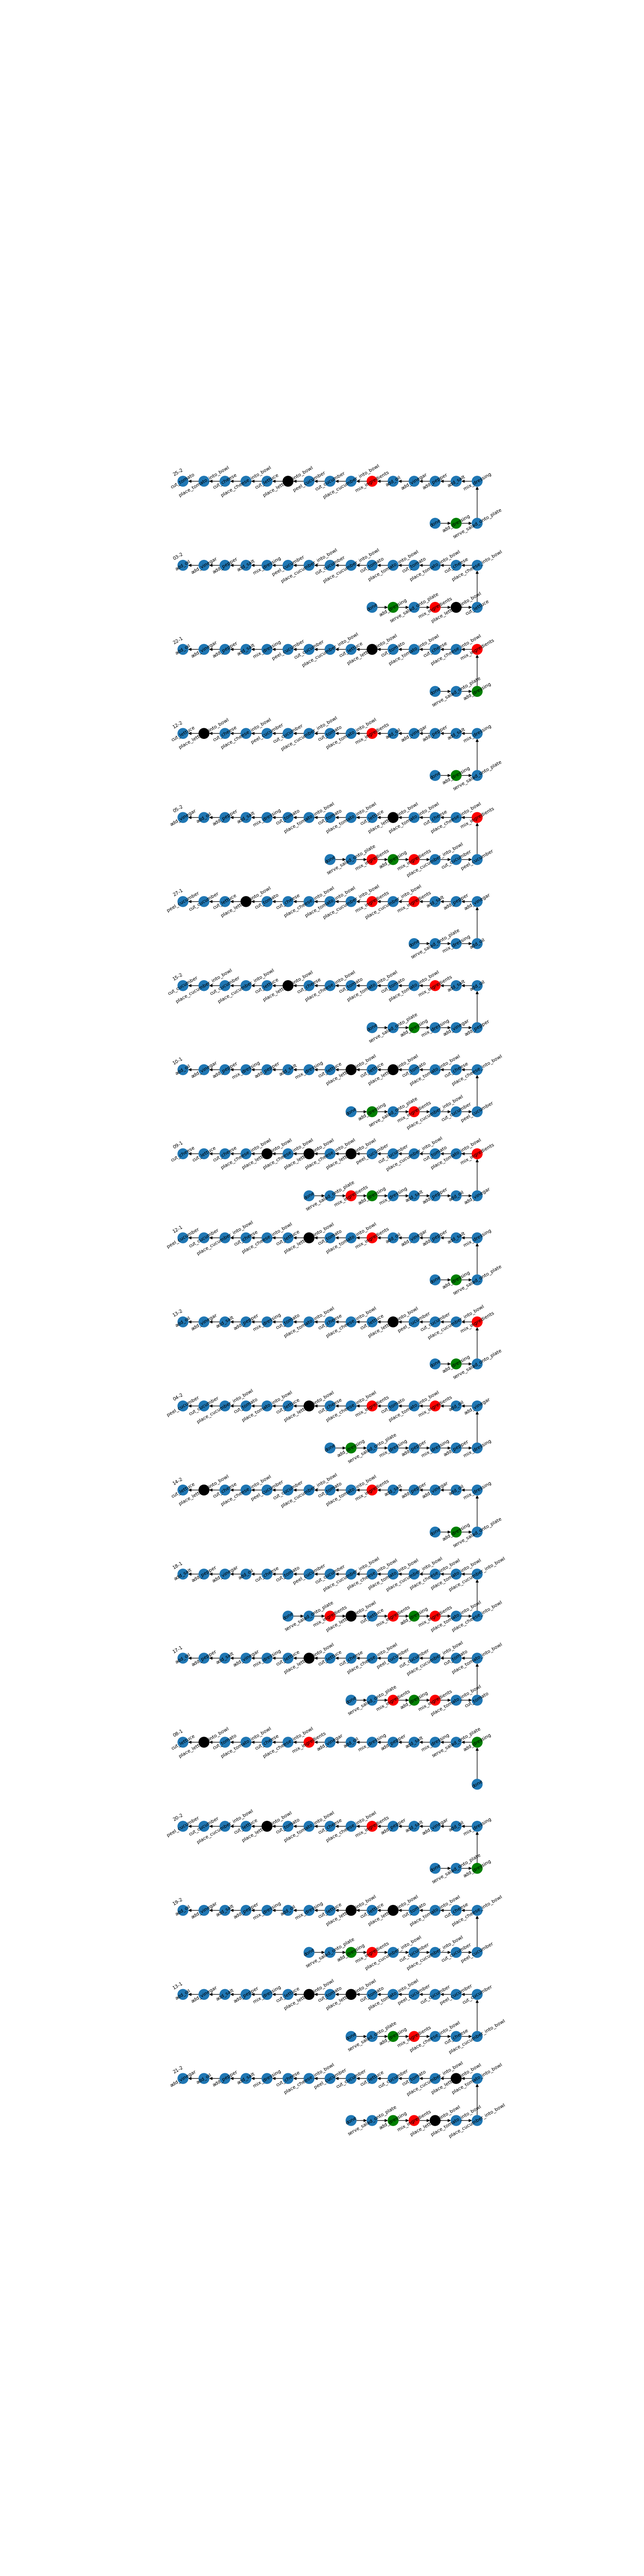
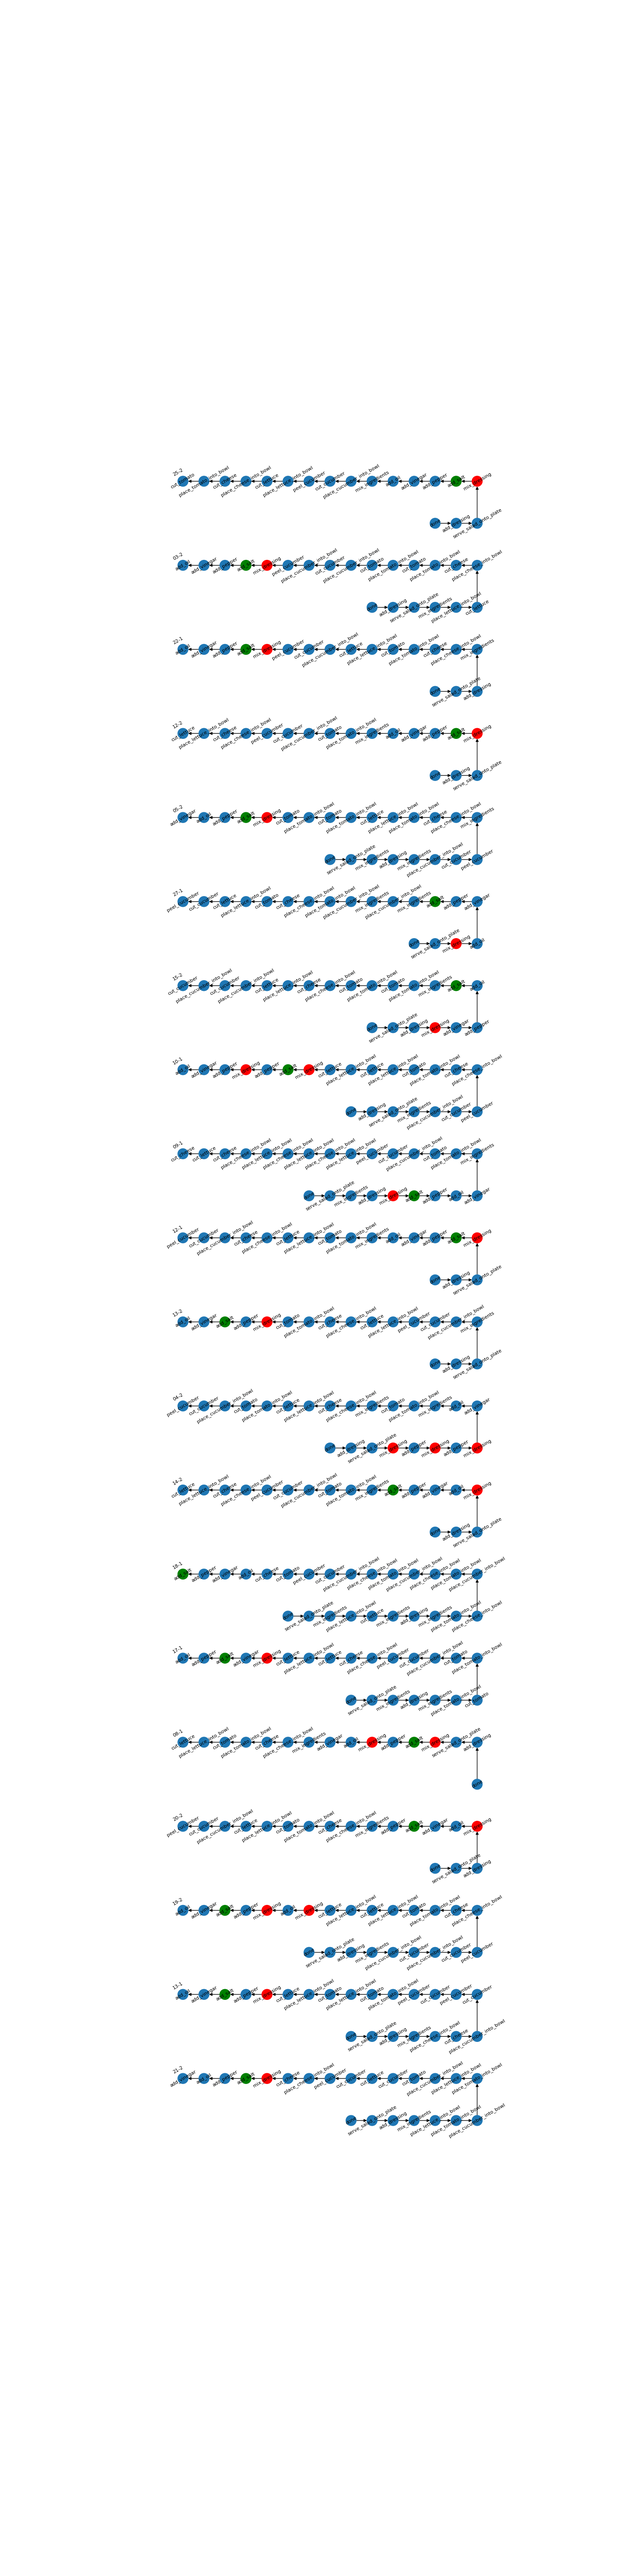
Graph runner updated, with video checking

diff --git a/graph_runner.py b/graph_runner.py
@@ -22,66 +22,102 @@ A grey node is COMPLETE if:
 #     3. all black-child nodes are COMPLETE
 
 """
-def run_graph(graph):
-    from combined_graph import draw_graph
-    graph = copy.deepcopy(graph)
-    update_node_states(graph)
-    runnable_nodes = get_runnable_nodes(graph)
-    done_node = graph.get_node('done')
-    while not is_complete(done_node):
-        draw_graph(graph)
-        print_nodes(runnable_nodes)
-        choice = input()
-        choice_node = graph.get_node(choice)
-        execute_node(choice_node)
-        update_node_states(graph)
-        runnable_nodes = get_runnable_nodes(graph)
 
-def print_nodes(nodes):
-    for node in nodes:
-        print(node, end=', ')
-    print()
+class GraphRunner():
+    def __init__(self, graph, all_action_list):
+        self.orig_graph = graph
+        self.graph = copy.deepcopy(graph)
+        self.all_action_list = all_action_list
+        self.cur_action_list_idx = 0
+        self.cur_action_list = all_action_list[self.cur_action_list_idx]
+        self.cur_action_idx = 0
 
-def execute_node(node):
-    if not is_executable(node):
-        print("Not executable! Current state of node {} is {}!".format(node.name, node.state))
-        return
-    node.executed = True
+    def reset(self):
+        self.graph = copy.deepcopy(self.orig_graph)
+        self.cur_action_list_idx += 1
+        self.cur_action_idx = 0
 
-def get_runnable_nodes(graph):
-    return [node for node in graph.get_node_list() if is_executable(node)]
+    def run(self):
+        from combined_graph import draw_graph
+        for action_list in self.all_action_list:
+            self.update_node_states()
+            runnable_nodes = self.get_runnable_nodes()
+            done_node = self.graph.get_node('done')
+            while not self.is_complete(done_node):
+                # draw_graph(self.graph)
+                self.print_nodes(runnable_nodes)
+                choice = self.get_next_action()
+                choice_node = self.graph.get_node(choice)
+                self.execute_node(choice_node)
+                self.update_node_states()
+                runnable_nodes = self.get_runnable_nodes()
+            # draw_graph(self.graph)
+            input('Next?')
+            self.reset()
 
-def update_node_states(graph):
-    for i, node in enumerate(graph.get_node_list()):
-        if is_finished(node):
-            node.state = 3
-        elif is_complete(node):
-            node.state = 2
-        elif is_executable(node):
-            node.state = 1
+    def print_nodes(self, nodes):
+        for node in nodes:
+            print(node, end=', ')
+        print()
 
-def is_executable(node):
-    for a_node in node.get_after_nodes():
-        if a_node.executed:
+    def get_next_action(self):
+        # action = input()
+        action = self.cur_action_list[self.cur_action_idx]
+        self.cur_action_idx += 1
+        print(action)
+
+        return action
+
+    def execute_node(self, node):
+        if not self.is_executable(node):
+            print("Not executable! Current state of node {} is {}!".format(node.name, node.state))
+            return
+                
+        node.executed = True
+
+    def get_runnable_nodes(self):
+        return [node for node in self.graph.get_node_list() if self.is_executable(node)]
+
+    def update_node_states(self):
+        changed = True
+        while changed:
+            changed = False
+            for i, node in enumerate(self.graph.get_node_list()):
+                new_state = 0
+                if self.is_finished(node):
+                    new_state = 3
+                elif self.is_complete(node):
+                    new_state = 2
+                elif self.is_executable(node):
+                    new_state = 1
+                if node.state != new_state:
+                    changed = True
+                    node.state = new_state
+
+    def is_executable(self, node):
+        if node.state > 2:
             return False
-    for c_node in node.get_required_nodes():
-        if c_node.state < 2:
-            return False
-    return True
+        for a_node in node.get_after_nodes():
+            if a_node.executed:
+                return False
+        for c_node in node.get_lower_nodes():
+            if c_node.state < 2:
+                return False
+        return True
 
-def is_complete(node):
-    if not node.is_optional() and not node.executed:
+    def is_complete(self, node):
+        if not node.is_optional() and not node.executed:
+            return False
+        for c_node in node.get_mandatory_nodes(): # CHECK
+            if c_node.state < 2:
+                return False
+        return True
+
+    def is_finished(self, node):
+        for c_node in node.get_mandatory_nodes():
+            if c_node.state < 2:
+                return False
+        for a_node in node.get_after_nodes():
+            if a_node.executed or a_node.state > 2:
+                return True
         return False
-    for c_node in node.get_required_nodes():
-        if c_node.state < 2:
-            return False
-    return True
-
-def is_finished(node):
-    for c_node in node.get_required_nodes():
-        if c_node.state < 2:
-            return False
-    for a_node in node.get_after_nodes():
-        if a_node.executed:
-            return True
-    return False

diff --git a/individual_graph.py b/individual_graph.py
@@ -48,8 +48,10 @@ def draw_graph(DG, idx, plot_file, node_list):
 
     for i, name in enumerate(node_list):
         if i == 0:
-            name = "{}\n\n{}\n\n".format(plot_file, name)
-        DG.add_node("{}_{}".format(idx, i), name=name, pos=get_node_pos(i, node_count))
+            label_name = "{}\n\n{}\n\n".format(plot_file, name)
+            DG.add_node("{}_{}".format(idx, i), name=label_name, pos=get_node_pos(i, node_count))
+        else:
+            DG.add_node("{}_{}".format(idx, i), name=name, pos=get_node_pos(i, node_count))
         if name in HIGHLIGHT_NODE.keys():
             node_color.append(HIGHLIGHT_NODE[name])
         else:
@@ -68,9 +70,9 @@ LABEL_ROTATION = 30
 GRAPH_WIDTH = 15
 FONT_SIZE = 8
 # HIGHLIGHT_NODE = {}
-HIGHLIGHT_NODE = {'mix_ingredients': 'red', 'add_dressing': 'green', 'place_lettuce_into_bowl': 'black'}
-# HIGHLIGHT_NODE = {'place_cucumber_into_bowl': 'red', 'cut_cucumber': 'green'}
-# HIGHLIGHT_NODE = {'mix_dressing': 'red', 'add_salt': 'green'}
+# HIGHLIGHT_NODE = {'mix_ingredients': 'red', 'add_dressing': 'green', 'place_lettuce_into_bowl': 'black'}
+# HIGHLIGHT_NODE = {'peel_cucumber': 'red', 'cut_cucumber': 'green'}
+HIGHLIGHT_NODE = {'mix_dressing': 'red', 'add_salt': 'green'}
 node_count = 0
 node_color = []
 plot_list = ["01-1", "02-1", "03-1"]

diff --git a/graph.py b/graph.py
@@ -111,6 +111,15 @@ class Node():
     def get_required_nodes(self):
         return [node for node in self.get_edge_c_nodes() if self.requires(node)]
 
+    def get_lower_nodes(self):
+        return [node for _, node, edge_type in self.get_edges() if edge_type=='lower']
+
+    def get_higher_parent_nodes(self):
+        return [node for node, _, edge_type in self.get_parent_edges() if edge_type=='higher' or edge_type=='new']
+
+    def get_mandatory_nodes(self):
+        return [node for _, node, edge_type in self.get_edges() if edge_type=='lower' or edge_type=='new']
+
     def get_after_nodes(self):
         return [node for _, node, edge_type in self.get_edges() if edge_type=='after']
 

diff --git a/combined_graph.py b/combined_graph.py
@@ -155,7 +155,7 @@ def reconstruct_graph(graph):
                 if p_edge_type != 'higher':
                     is_optional = False
                     break
-                for rc_node in node.get_required_nodes():
+                for rc_node in node.get_required_nodes(): # CHECK
                     if not p_node.requires(rc_node):
                         is_optional = False
                         break
@@ -321,4 +321,5 @@ if __name__ == "__main__":
     graph_object = reconstruct_graph(graph_object)
     draw_graph(graph_object)
 
-    graph_runner.run_graph(graph_object)
+    gr = graph_runner.GraphRunner(graph_object, all_action_list)
+    gr.run()

diff --git a/find_video.py b/find_video.py
@@ -32,7 +32,7 @@ def get_action_list(annotation_file):
 plot_list = ['10-1', '11-2', '13-1', '15-1', '23-2', '08-2', '05-2', '11-1', '24-2', '08-1', '18-1', '12-2', '07-2', '07-1', '13-2', '06-2', '16-2', '23-1', '12-1', '11-1', '26-2', '04-1', '26-1', '14-2', '03-1', '16-1', '24-1', '21-1', '27-1', '22-1']
 
 # target_actions = ['add_oil', 'add_vinegar', 'add_pepper', 'add_salt']
-target_actions = ['peel_cucumber']
+target_actions = ['cut_cucumber']
 
 found_list = []
 for idx, plot_file in enumerate(plot_list):
